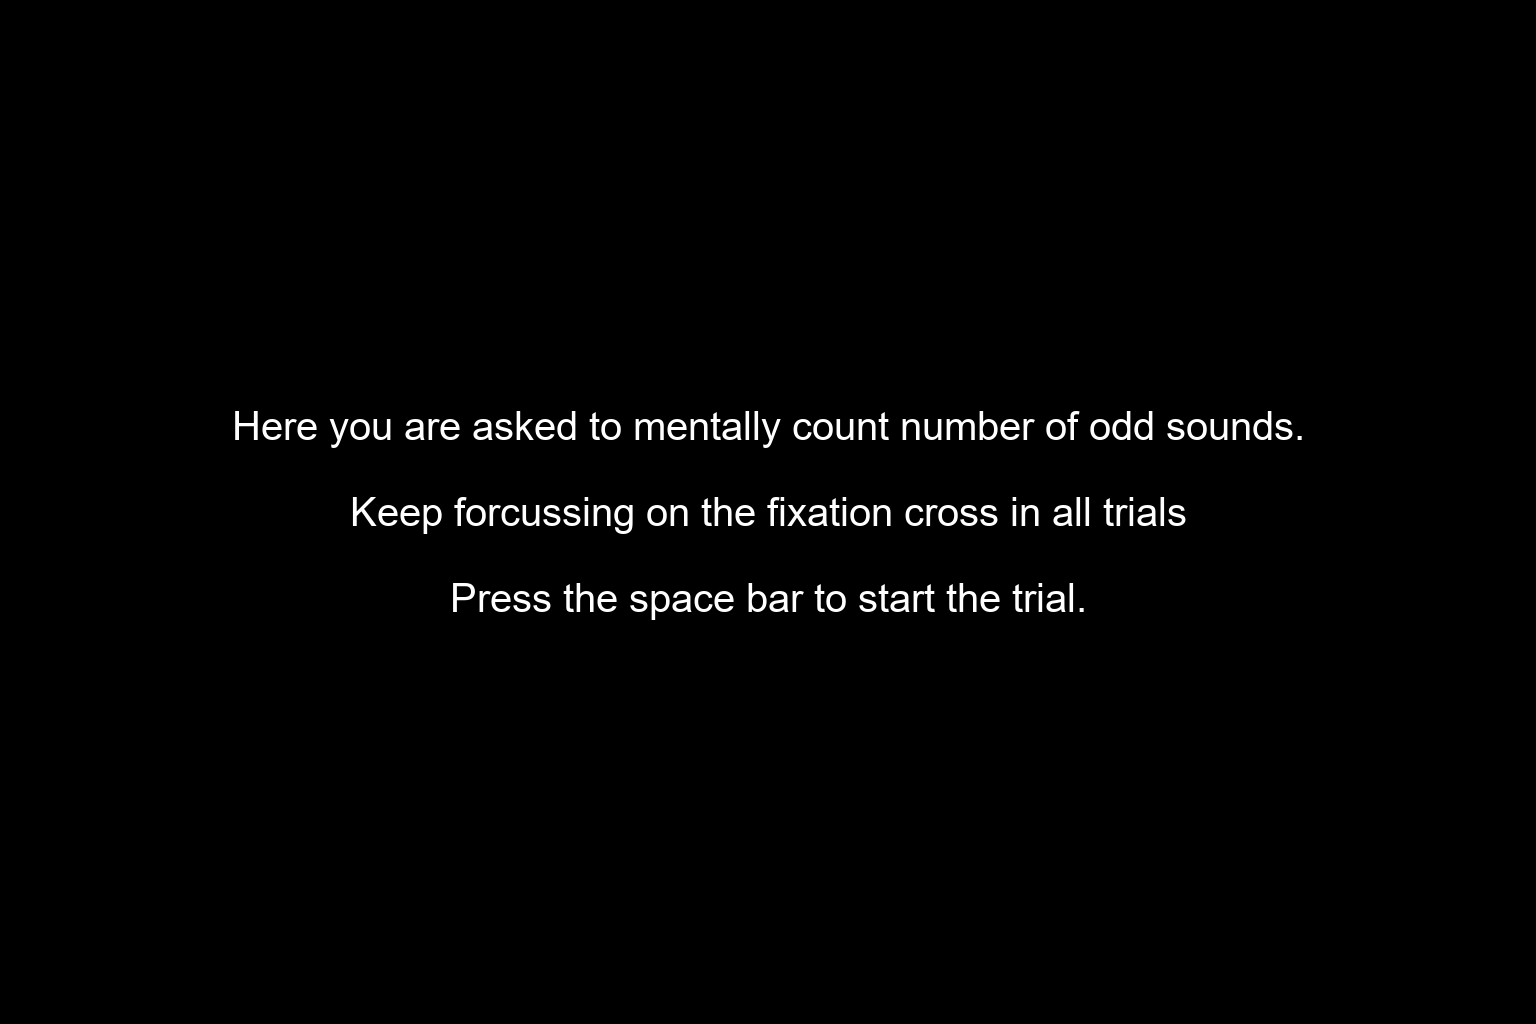
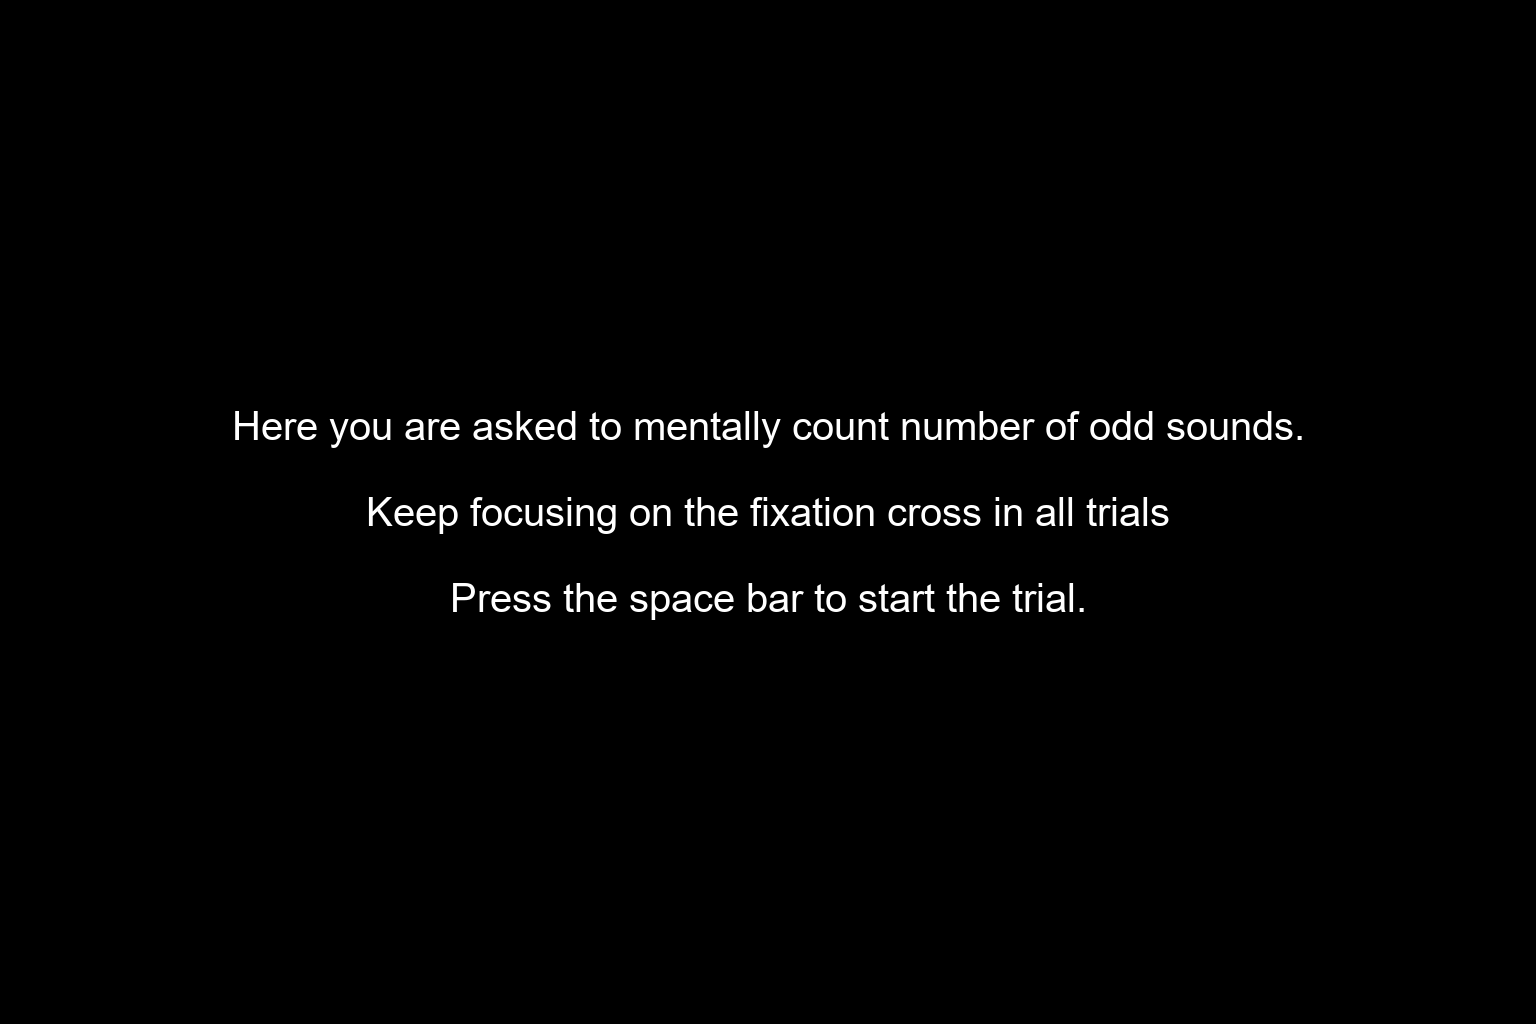
Instructions were changed

Changed region(s): [[0.2188, 0.4688, 0.7812, 0.5312]]

diff --git a/ov_experiment/scenarios/tools/stimulus_generator.py b/ov_experiment/scenarios/tools/stimulus_generator.py
@@ -80,9 +80,13 @@ def makeInstructions(dirName, **kwargs):
             ],
             [
                 "This is the frequent sound.",
+                 "\n",
+                "Press the spacebar to continue."
             ],
              [
                 "This is the odd sound.",
+                 "\n",
+                "Press the spacebar to continue."
             ]
         ],
         [
